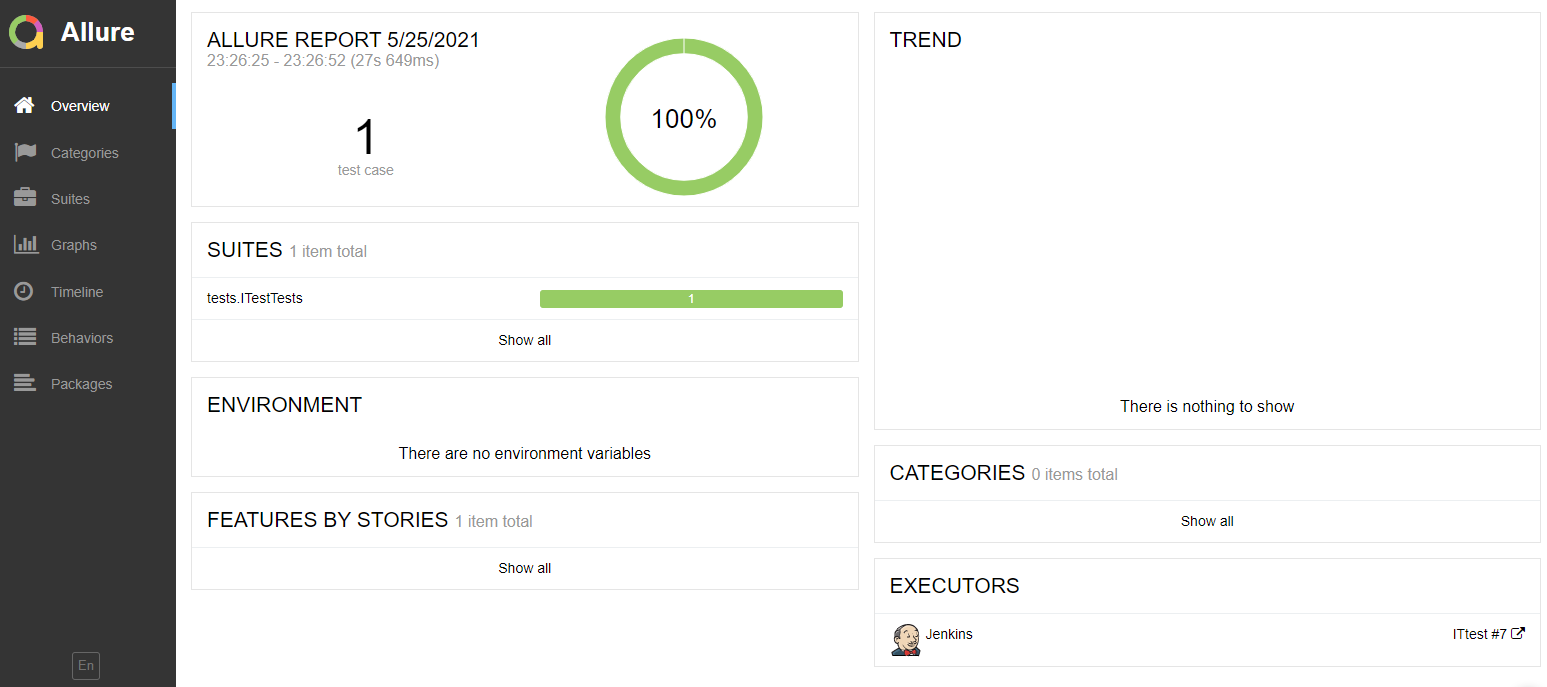
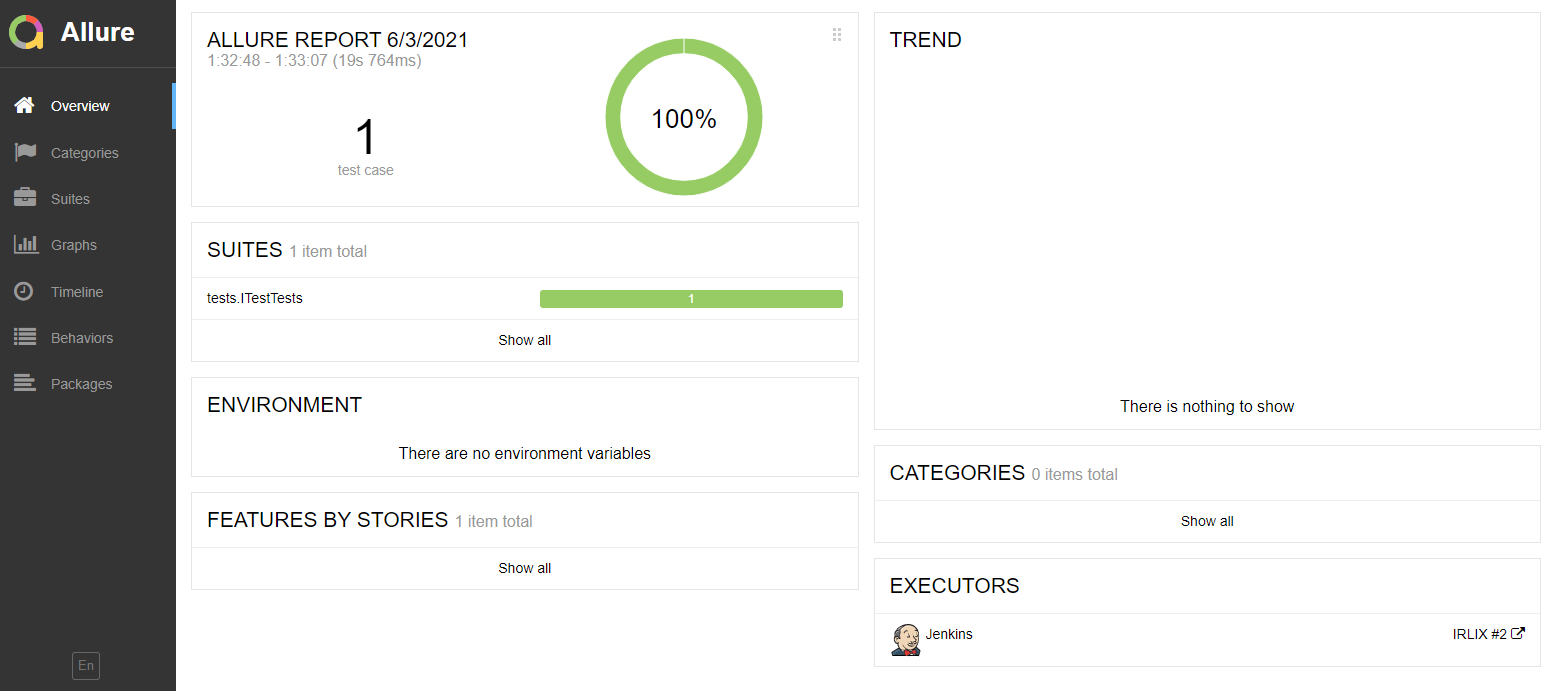
add

diff --git a/README.md b/README.md
@@ -1,4 +1,4 @@
-## UI automation testing for https://ittest-team.ru/
+## UI automation testing for https://irlix.com/
 
 #### *Quick project example with infrastructure: Selenide UI tests with Allure report, remote run on Selenoid and push notifications to Telegram*
 
@@ -27,7 +27,7 @@
 ![Video](images/Video.gif)
 
 ### Jenkins
-https://jenkins.autotests.cloud/job/ITtest/
+https://jenkins.autotests.cloud/job/IRLIX/
 ![Jenkins](images/Jenkins.png)
 
 ### Telegram
